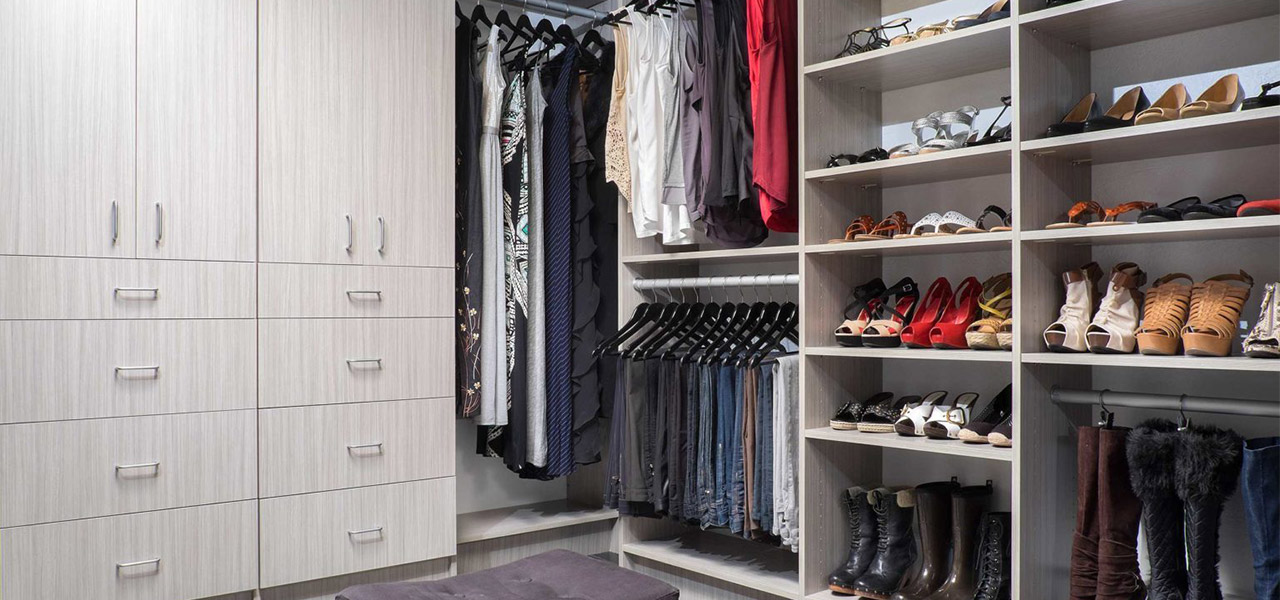
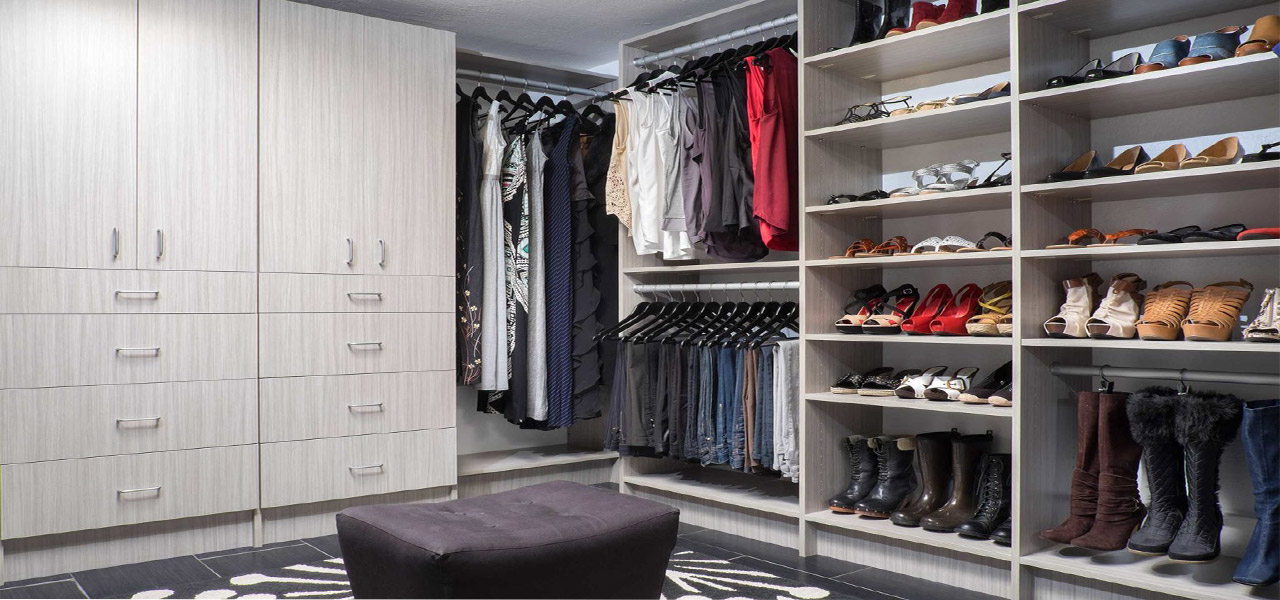
Changed Door Page Images v1

diff --git a/client/src/pages/Doors.jsx b/client/src/pages/Doors.jsx
@@ -4,7 +4,7 @@ import ServiceCard from "../components/ServiceCard";
 // Import your images
 import service_image_3 from "../assets/service_image_3.jpg";
 import service_image_4 from "../assets/service_image_4.jpg";
-import service_image_5 from "../assets/service_image_5.jpg";
+import service_image_5v3 from "../assets/service_image_5v3.jpg";
 
 const Doors = () => {
   return (
@@ -43,7 +43,7 @@ const Doors = () => {
         />
 
         <ServiceCard
-          image={service_image_5}
+          image={service_image_5v3}
           header="Closet Doors"
           description="Fabulous style for every door in the home."
         />
